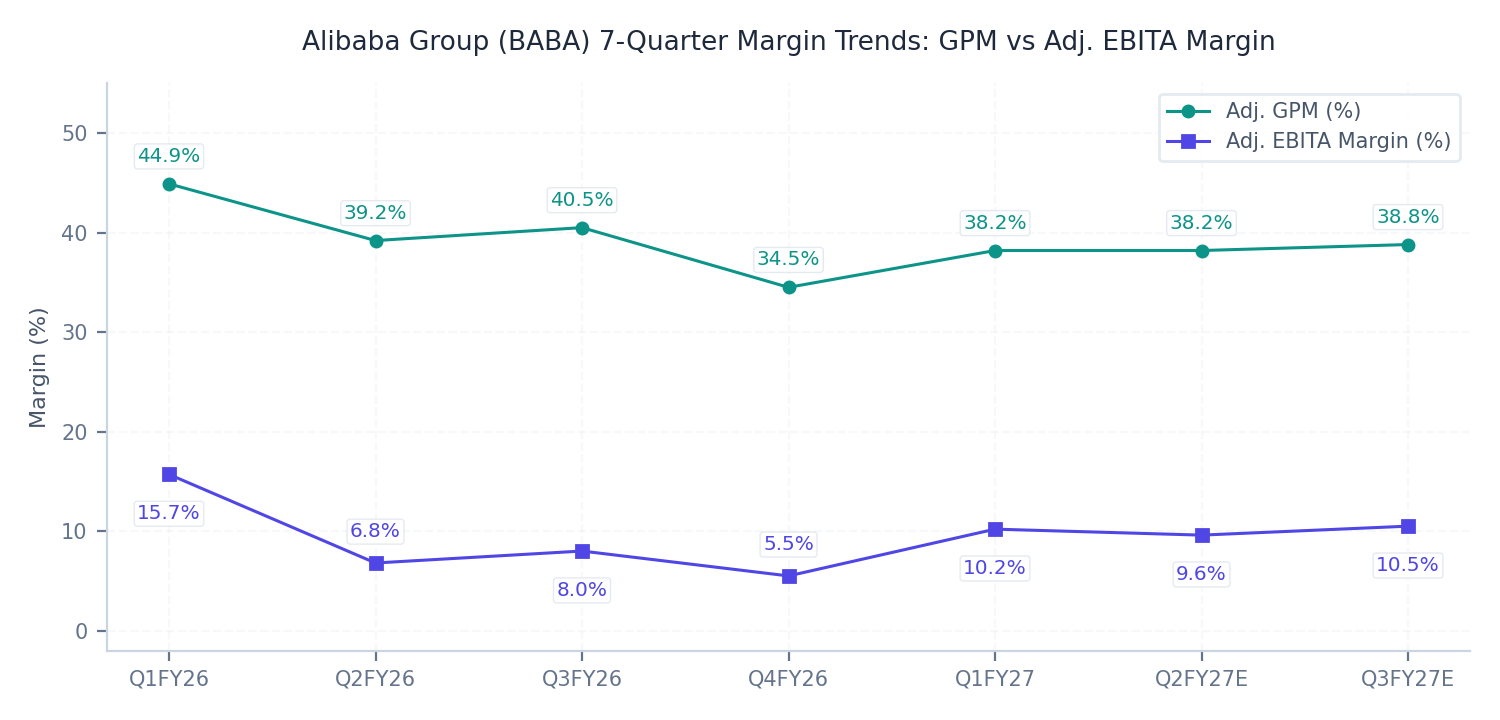
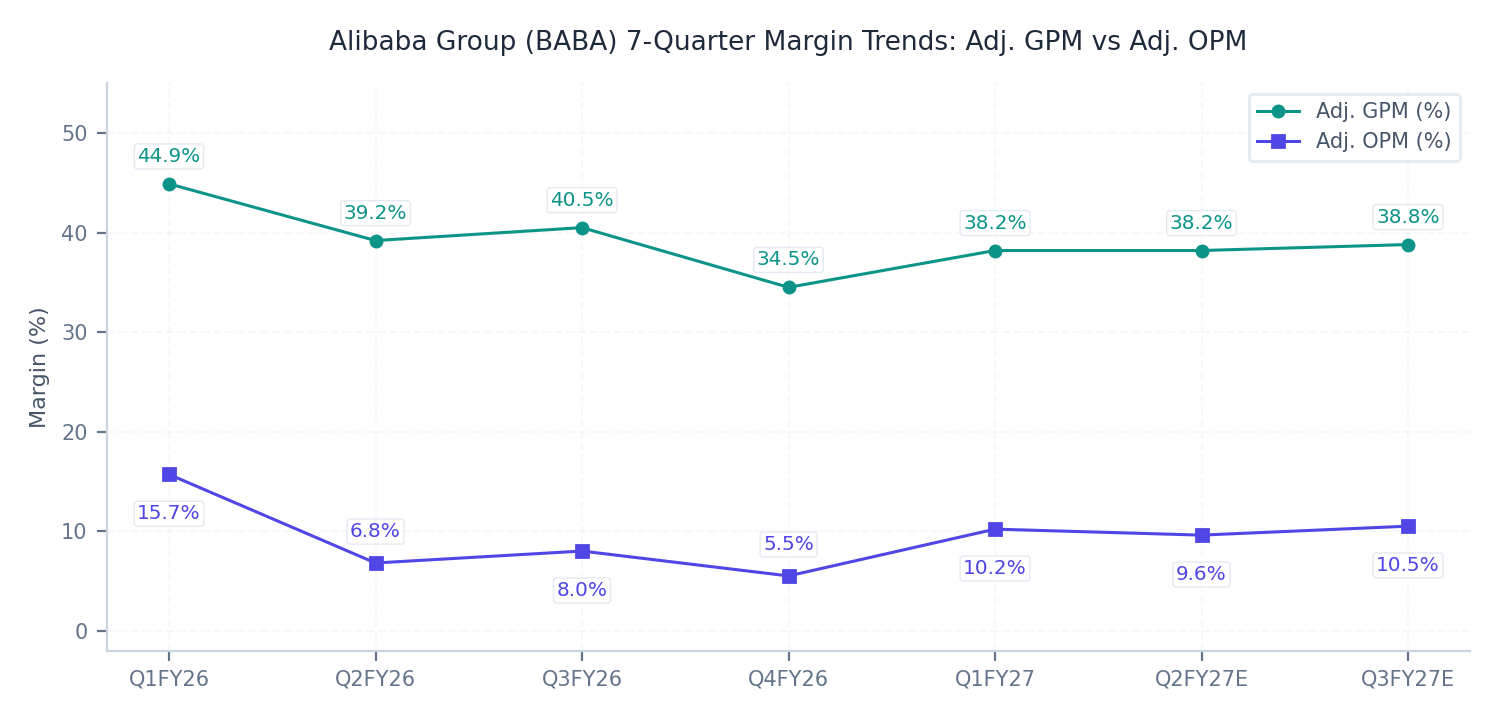
Fix: Remove Antigravity pageTitleSuffix and add English description to BABA/PDD frontmatter

Changed region(s): [[0.184, 0.0306, 0.8587, 0.0917], [0.7667, 0.1222, 0.9507, 0.2139]]

diff --git a/content/해외주식/BABA/Earnings/FY27-Q1_BABA_Earnings_Update.md b/content/해외주식/BABA/Earnings/FY27-Q1_BABA_Earnings_Update.md
@@ -1,5 +1,6 @@
 ---
 title: BABA Q1 FY27 Earnings Update
+description: Alibaba Group Holding Limited (BABA) Q1 FY27 Earnings Update Report
 date: 2026-08-26
 ticker: BABA
 company: Alibaba Group Holding Limited
@@ -24,7 +25,7 @@ tags:
 ### 핵심 실적 하이라이트
 - [실적 혼조] 매출액 268.95B RMB (Est. 268.50B RMB, +0.2% 부합)로 탑라인 견조했으나, AI 인프라 대규모 선제 투자로 Non-GAAP EPS 8.52 RMB (Est. 10.72 RMB, -20.5% 하회) 기록.
   - 12개 분기 연속 세 자릿수 성장한 AI 클라우드가 전체 성장을 견인했으나, AI 모델 R&D 및 추론 인프라 비용 집행으로 단기 수익성 압박.
-- [AI 클라우드 폭발적 성장] AI Cloud and Compute Services 부문 매출 48.44B RMB (+44.9% YoY) 기록, AI 관련 제품 매출 12.38B RMB 달성 및 EBITA 5.63B RMB (+132.7% YoY)로 레버리지 본격화.
+- [AI 클라우드 폭발적 성장] AI Cloud and Compute Services 부문 매출 48.44B RMB (+44.9% YoY) 기록, AI 관련 제품 매출 12.38B RMB 달성 및 조정 영업이익(Adj. OI) 5.63B RMB (+132.7% YoY)로 레버리지 본격화.
   - 자체 설계 AI 가속기 Zhenwu M890 채택 고객사 650개사 돌파 및 중국 AI 클라우드 점유율 38.1% 압도적 1위 수성.
 - [수익성 및 CapEx 기조] AI 인프라 CapEx 67.68B RMB (+75.0% YoY) 집행으로 분기 FCF 44.67B RMB 순유출 기록.
   - 단기 FCF 훼손에도 불구하고 현금성 자산 4,745억 위안(약 699억 달러) 및 800억 HKD 유상증자를 통해 풀스택 AI 리더십 선점을 위한 자본 완충력 확보.
@@ -45,7 +46,7 @@ tags:
 
 ### Key Takeaways
 - 중국 이커머스 CMR 완만(-7% YoY, 라이크포라이크 +1%) 흐름 속에서도 AI Cloud 부문이 45% 고성장하며 그룹 전체 탑라인 성장률을 8.6%로 재가속.
-- AI 전용 컴퓨팅 인프라 및 Qwen 3.8-Max 대규모 모델 학습을 위한 CapEx(676.8억 위안) 급증으로 단기 잉여현금흐름은 악화되었으나, AI 클라우드 EBITA는 133% 급증하며 단위 경제성 개선 입증.
+- AI 전용 컴퓨팅 인프라 및 Qwen 3.8-Max 대규모 모델 학습을 위한 CapEx(676.8억 위안) 급증으로 단기 잉여현금흐름은 악화되었으나, AI 클라우드 조정 영업이익은 133% 급증하며 단위 경제성 개선 입증.
 - 800억 HKD 규모 신주 발행으로 인한 단기 주가 조정 이후, 4,745억 위안의 막대한 현금 체력과 자체 칩(Zhenwu M890) 생태계를 기반으로 중장기 AI 컴퓨팅 패권 강화 전망.
 
 ## ▌ 02. 매출성장 및 분기별 궤적 분석
@@ -79,7 +80,7 @@ tags:
 ### 마진 궤적 및 수익성 동인 분석
 - OPM 궤적 판정: AI 투자기 진입에 따른 마진 재편 및 저점 반등 구간 (10% 내외 밴드 안착).
 - 매출원가율 상승 요인: 클라우드 인프라 서버 감가상각비 증가 및 AI 칩 조달 단가 상승으로 원가율이 61.8%(전년동기 55.1%)로 상승하며 GPM 압박.
-- 사업부별 EBITA 상쇄 효과: 커머스 그룹 EBITA는 39.75B RMB(-1% YoY)로 안정적 수익성을 방어했고, AI Cloud EBITA는 5.63B RMB(+133% YoY, EBITA 마진 12%)로 급증하여 AI Labs의 연구개발 손실(13.86B RMB 적자)을 일부 상쇄.
+- 사업부별 조정 영업이익 상쇄 효과: 커머스 그룹 조정 영업이익은 39.75B RMB(-1% YoY)로 안정적 수익성을 방어했고, AI Cloud 조정 영업이익은 5.63B RMB(+133% YoY, OPM 12%)로 급증하여 AI Labs의 연구개발 손실(13.86B RMB 적자)을 일부 상쇄.
 - 일회성 비용 영향: 유럽연합(EU) 디지털서비스법(DSA) 관련 벌금 충당금 5.5억 유로(약 42억 위안) 및 영업권 손상차손 44.6억 위안 반영으로 GAAP 영업이익률 5.6%로 하락.
 
 ## ▌ 04. 실적 추정치 변경 및 목표주가 민감도 매트릭스 (Valuation & Sensitivity)
@@ -108,7 +109,7 @@ tags:
 
 ## ▌ 05. 주요 질의응답
 - AI 클라우드 45% 성장 동력 및 자체 가속기 Zhenwu M890: 외부 고객 대상 AI 모델 훈련 및 추론 수요가 급증하고 있으며, 자체 설계 AI 칩 Zhenwu M890이 20개 이상 산업 650개 고객사에 상용화되어 이기종 컴퓨팅 최적화를 주도하고 있음을 확인.
-- AI CapEx 급증(677억 위안)과 FCF 회수 주기: CPU/GPU 컴퓨트 용량 선제 확보 및 칩셋 가격 상승으로 CapEx가 확대되었으나, 클라우드 부문 EBITA 마진이 12%로 개선되고 있어 AI 인프라 가동률 상승 시 FCF 턴어라운드가 가속화될 것으로 설명.
+- AI CapEx 급증(677억 위안)과 FCF 회수 주기: CPU/GPU 컴퓨트 용량 선제 확보 및 칩셋 가격 상승으로 CapEx가 확대되었으나, 클라우드 부문 조정 영업이익률이 12%로 개선되고 있어 AI 인프라 가동률 상승 시 FCF 턴어라운드가 가속화될 것으로 설명.
 - 800억 HKD 유상증자 목적 및 자본 배치: 글로벌 AI 컴퓨팅 인프라 확장 및 오픈소스 모델(Qwen 3.8-Max) 생태계 주도권을 확보하기 위한 전략적 자금 조달이며, 핵심 사업 현금흐름과 병행하여 장기 주주가치를 극대화할 계획임을 강조.
 
 ## ▌ 06. 리스크 요인 및 모니터링 지표

diff --git a/content/해외주식/PDD/Earnings/FY26-Q2_PDD_Earnings_Update.md b/content/해외주식/PDD/Earnings/FY26-Q2_PDD_Earnings_Update.md
@@ -1,5 +1,6 @@
 ---
 title: PDD Q2 FY26 Earnings Update
+description: PDD Holdings Inc. (PDD) Q2 FY26 Earnings Update Report
 date: 2026-08-26
 ticker: PDD
 company: PDD Holdings Inc.
